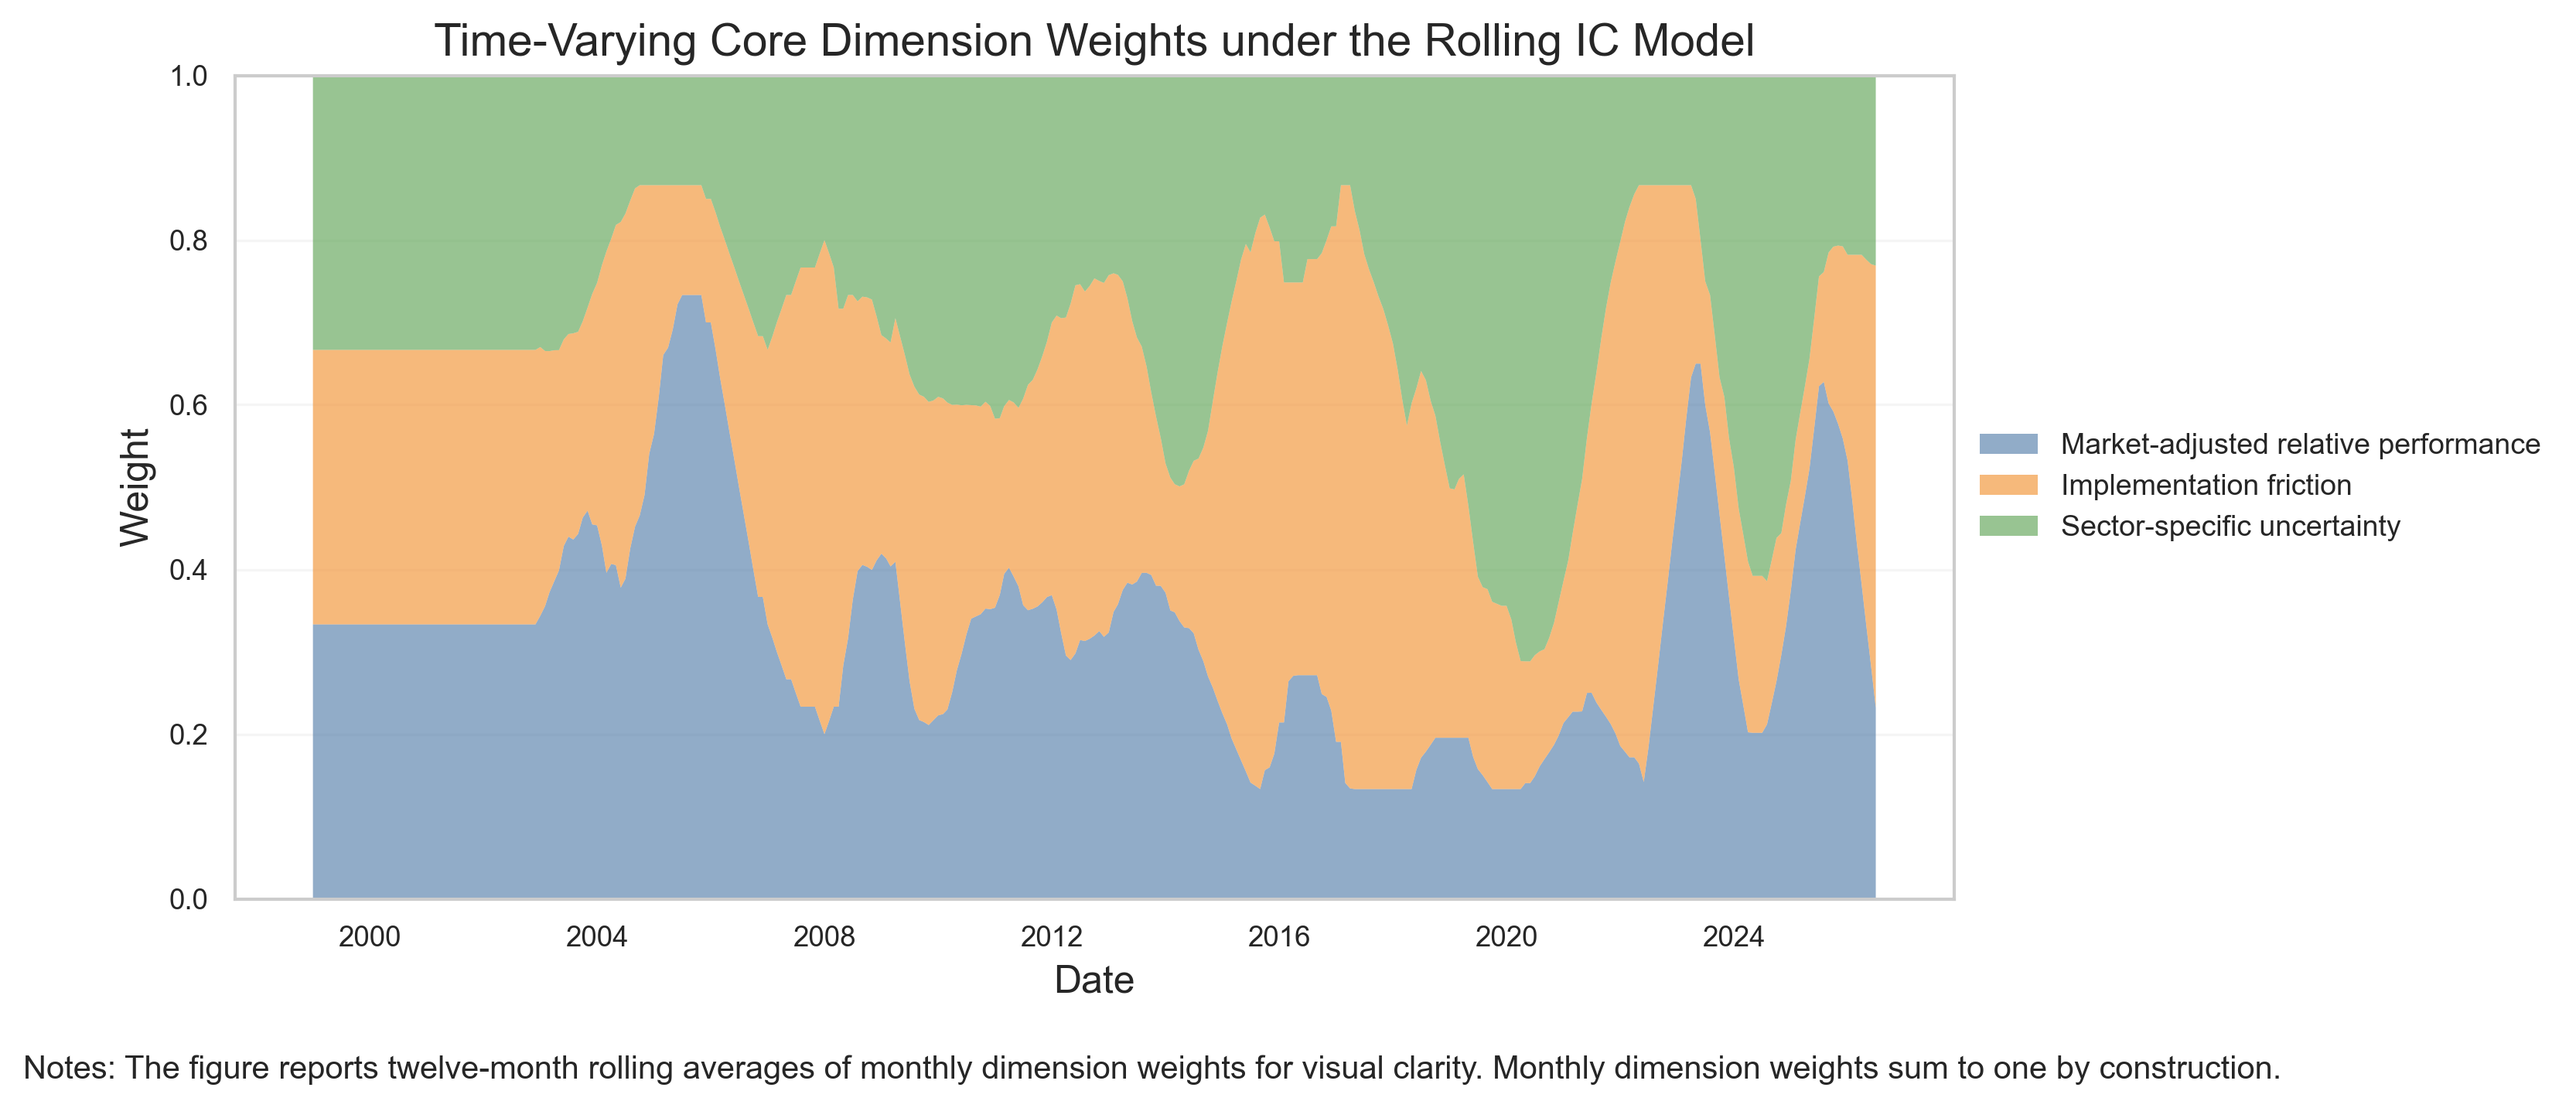
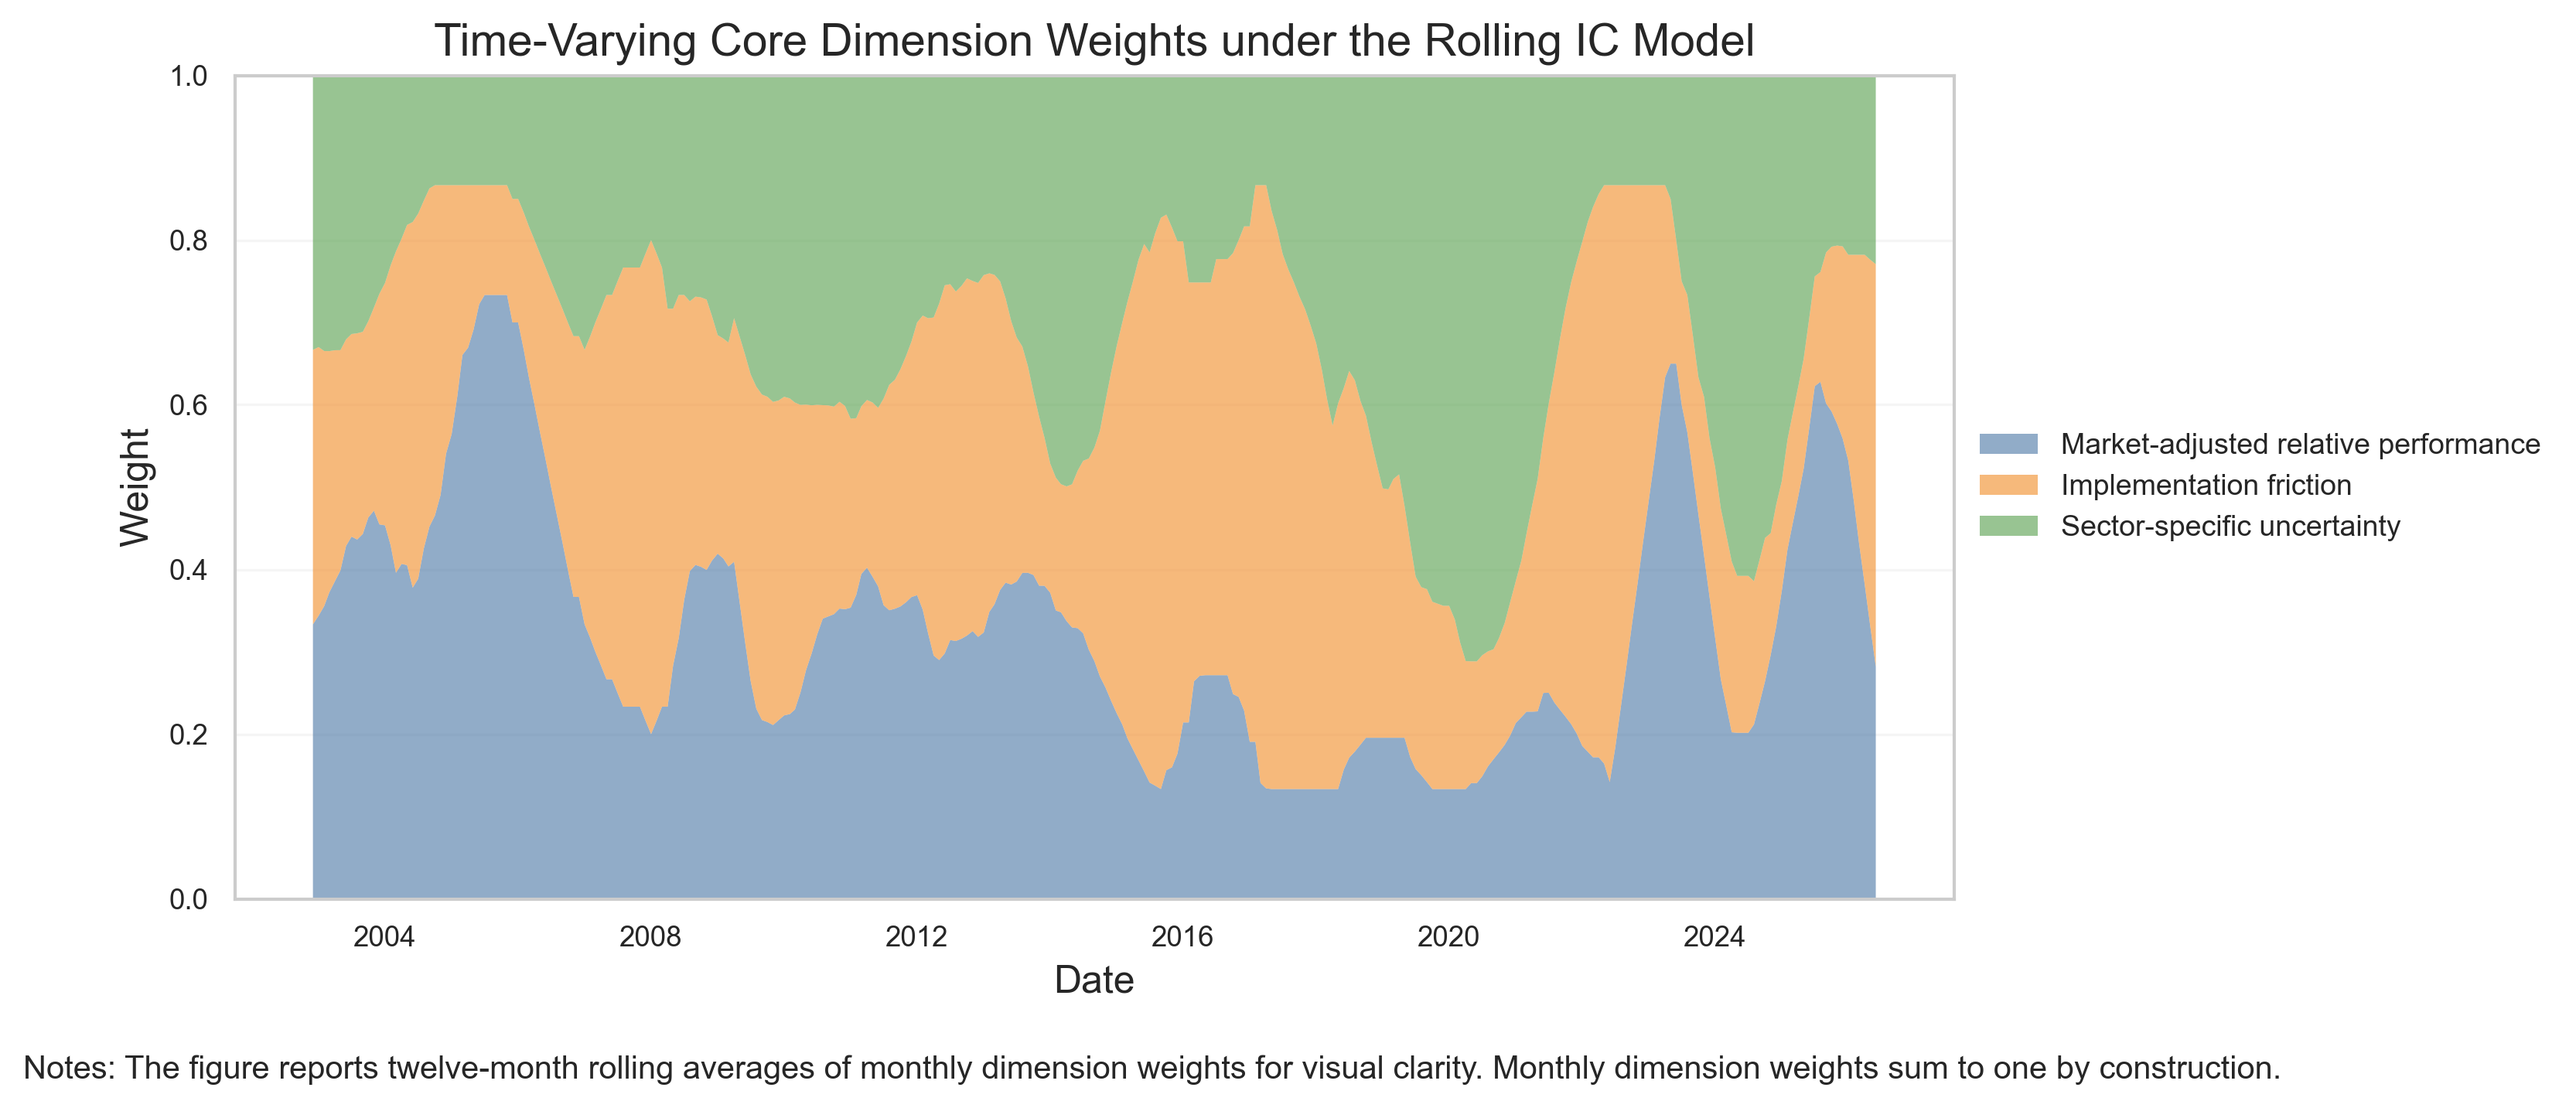
Align Appendix G diagnostics with common window

diff --git a/scripts/generate_report_assets.py b/scripts/generate_report_assets.py
@@ -311,7 +311,9 @@ def format_publication_table_file(path: Path) -> None:
         if not pd.api.types.is_numeric_dtype(series):
             continue
         lower = column.lower()
-        if "month" in lower or "number of" in lower or lower.endswith("months"):
+        if "effective number" in lower:
+            formatted[column] = series.map(lambda value: "" if pd.isna(value) else f"{value:.4f}")
+        elif "month" in lower or "number of" in lower or lower.endswith("months"):
             formatted[column] = series.round(0).astype("Int64")
         elif any(token in lower for token in ["share", "return", "volatility", "drawdown", "turnover", "rate", "spread", "probability"]):
             formatted[column] = series.map(lambda value: "" if pd.isna(value) else f"{value:.4f}")
@@ -2208,13 +2210,17 @@ def make_figure_a1_full_window_and_test_rebased() -> None:
 
 
 def make_figure_2_rolling_weight_evolution() -> None:
+    summary = load_table_csv("table_sh4_common_shrinkage_selection_conclusion.csv").iloc[0]
+    common_start = pd.Timestamp(summary["common_window_start"])
+    common_end = pd.Timestamp(summary["common_window_end"])
     weights = load_csv(main_result_backtest_name("rolling_ic", "weight_history"), parse_dates=["Date"])
+    weights = weights[(weights["Date"] >= common_start) & (weights["Date"] <= common_end)].copy()
     smoothed = weights.copy()
     weight_columns = list(FACTOR_LABELS.keys())
     display_labels = [FACTOR_LABELS[column] for column in weight_columns]
     color_map = ["#4E79A7", "#F28E2B", "#59A14F"]
     for column in weight_columns:
-        smoothed[column] = smoothed[column].rolling(12, min_periods=1).mean()
+        smoothed[column] = smoothed[column].rolling(12, min_periods=12).mean()
 
     fig, ax = plt.subplots(figsize=(11.4, 5.0))
     ax.stackplot(
@@ -2250,6 +2256,8 @@ def make_figure_3_xgboost_concentration() -> None:
     summary = load_table_csv("table_sh4_common_shrinkage_selection_conclusion.csv").iloc[0]
     window_start = pd.Timestamp(summary["common_window_start"])
     window_end = pd.Timestamp(summary["common_window_end"])
+    baseline_weight = float(summary["selected_baseline_weight"])
+    model_weight = float(summary["selected_ic_weight"])
     weights = load_csv(main_result_backtest_name("xgboost_ic", "weight_history"), parse_dates=["Date"])
     weights = weights[(weights["Date"] >= window_start) & (weights["Date"] <= window_end)].copy()
     weight_columns = list(FACTOR_LABELS)
@@ -2258,7 +2266,7 @@ def make_figure_3_xgboost_concentration() -> None:
     pct_gt_50 = (weights["max_dimension_weight"] > 0.50).mean()
     pct_gt_60 = (weights["max_dimension_weight"] > 0.60).mean()
     moderate_reference = 0.50
-    theoretical_cap = 2.0 / 3.0
+    theoretical_cap = model_weight + baseline_weight / 3.0
 
     plt.figure(figsize=(11, 6.5))
     plt.plot(weights["Date"], weights["max_dimension_weight"], color=MODEL_COLORS["xgboost_ic"], linewidth=2.2)
@@ -2283,7 +2291,8 @@ def make_figure_3_xgboost_concentration() -> None:
     annotation = (
         f"Mean maximum dimension weight: {mean_max:.2f}\n"
         f"Months with max weight > 0.50: {pct_gt_50 * 100:.1f}%\n"
-        f"Months with max weight > 0.60: {pct_gt_60 * 100:.1f}%"
+        f"Months with max weight > 0.60: {pct_gt_60 * 100:.1f}%\n"
+        f"Theoretical post-shrinkage cap: {theoretical_cap:.4f}"
     )
     plt.text(
         0.02,

diff --git a/scripts/generate_factor_contribution_assets.py b/scripts/generate_factor_contribution_assets.py
@@ -18,6 +18,7 @@ TABLES_DIR = ROOT / "outputs" / "tables"
 FIGURES_DIR = ROOT / "outputs" / "figures"
 MAIN_FRAMEWORK = "holding_buffer_top6"
 MAIN_RESULT_PREFIX = f"common_shrinkage_{MAIN_FRAMEWORK}"
+COMMON_SHRINKAGE_CONCLUSION_PATH = ROOT / "outputs" / "tables" / "table_sh4_common_shrinkage_selection_conclusion.csv"
 
 MAIN_MODELS = ["fixed_weight", "rolling_ic", "ridge_ic", "lasso_ic", "elastic_net_ic", "random_forest_ic", "xgboost_ic"]
 MODEL_LABELS = {
@@ -62,6 +63,11 @@ def main_result_backtest_name(model_name: str, artifact: str) -> str:
     return f"{MAIN_RESULT_PREFIX}_{model_name}_{artifact}.csv"
 
 
+def load_common_window() -> tuple[pd.Timestamp, pd.Timestamp]:
+    summary = pd.read_csv(COMMON_SHRINKAGE_CONCLUSION_PATH).iloc[0]
+    return pd.Timestamp(summary["common_window_start"]), pd.Timestamp(summary["common_window_end"])
+
+
 def load_selection_frame(model_name: str) -> pd.DataFrame:
     frame = pd.read_csv(BACKTEST_DIR / main_result_backtest_name(model_name, "selections"), parse_dates=["Date"])
     if model_name == "fixed_weight":
@@ -71,12 +77,18 @@ def load_selection_frame(model_name: str) -> pd.DataFrame:
 
 
 def load_weight_history_frame(model_name: str) -> pd.DataFrame:
+    common_window_start, common_window_end = load_common_window()
     if model_name == "fixed_weight":
         dates = pd.read_csv(BACKTEST_DIR / main_result_backtest_name("fixed_weight", "selections"), usecols=["Date"]).drop_duplicates()
+        dates["Date"] = pd.to_datetime(dates["Date"])
+        dates = dates[(dates["Date"] >= common_window_start) & (dates["Date"] <= common_window_end)].copy()
         for weight_column, value in STATIC_WEIGHTS.items():
             dates[weight_column] = value
         return dates
-    return pd.read_csv(BACKTEST_DIR / main_result_backtest_name(model_name, "weight_history"), parse_dates=["Date"])
+    frame = pd.read_csv(BACKTEST_DIR / main_result_backtest_name(model_name, "weight_history"), parse_dates=["Date"])
+    frame = frame[(frame["Date"] >= common_window_start) & (frame["Date"] <= common_window_end)].copy()
+    assert frame["Date"].nunique() == 294, f"{model_name} weight history should contain 294 common-window months"
+    return frame
 
 
 def build_score_contribution_long_frame() -> pd.DataFrame:
